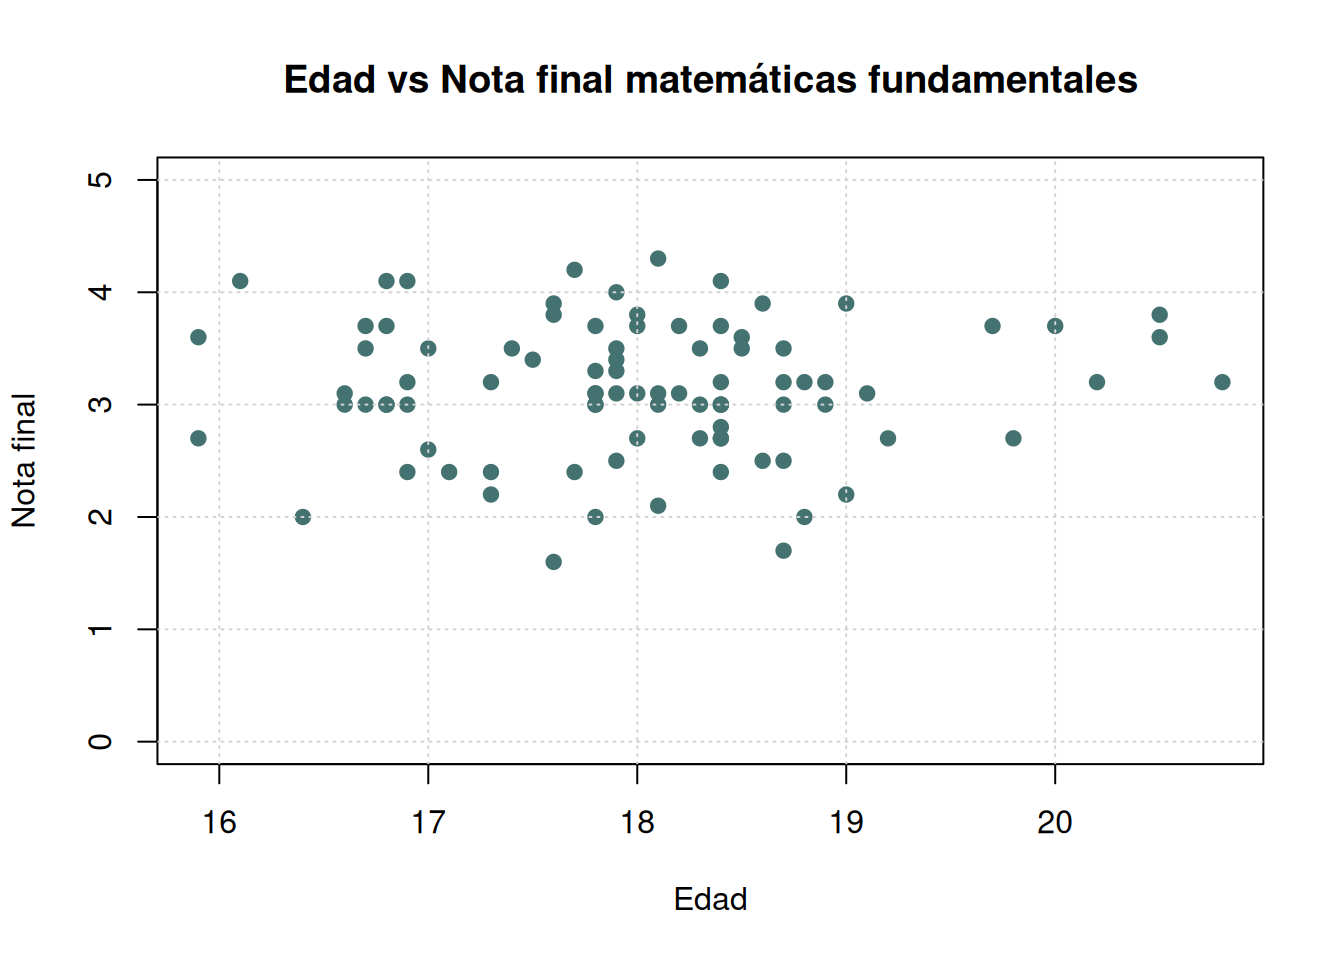
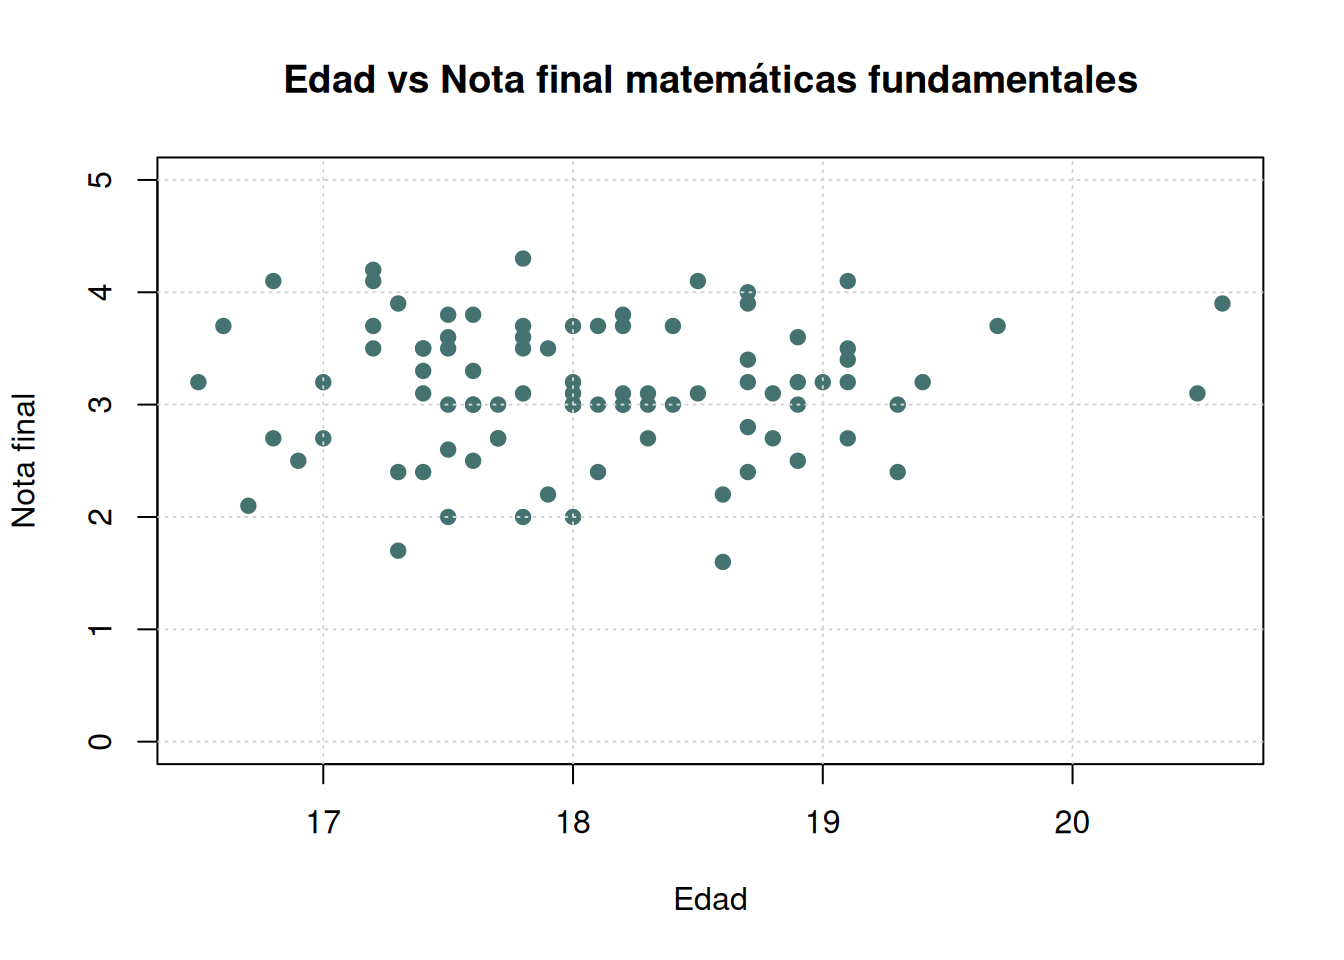
ajustes recurso13 -2

diff --git a/docs/recurso13.html b/docs/recurso13.html
@@ -732,13 +732,15 @@ stem(x)</code></pre>
 <pre><code>
   The decimal point is 1 digit(s) to the right of the |
 
-   4 | 489
-   6 | 3467781667778
-   8 | 11222333334677990000223333566778899
-  10 | 000111123344677888880112233344456678899
-  12 | 2346796
-  14 | 58
-  16 | 8</code></pre>
+   6 | 79
+   7 | 036666789
+   8 | 00001255667889999
+   9 | 00011122344455566666666778899
+  10 | 00112223346699
+  11 | 000112223557789
+  12 | 001112558
+  13 | 0266
+  14 | 9</code></pre>
 <pre class="r"><code>hist(x)
 boxplot(x)</code></pre>
 <p><img src="recurso13_files/figure-html/unnamed-chunk-12-1.png" width="672" /></p>
@@ -1011,8 +1013,8 @@ hchart(mtcars, &quot;scatter&quot;, hcaes(x = wt, y = mpg, group = cyl, name = m
                    &lt;b&gt;Cilindros:&lt;/b&gt; {point.group}&quot;
   ) %&gt;%
   hc_chart(zoomType = &quot;xy&quot;)</code></pre>
-<div class="highchart html-widget html-fill-item" id="htmlwidget-40427b5a9e7800b4acfb" style="width:672px;height:480px;"></div>
-<script type="application/json" data-for="htmlwidget-40427b5a9e7800b4acfb">{"x":{"hc_opts":{"chart":{"reflow":true,"zoomType":"xy"},"title":{"text":"Relación entre Peso y Consumo de Combustible"},"yAxis":{"title":{"text":"Millas por Galón (mpg)"},"type":"linear"},"credits":{"enabled":false},"exporting":{"enabled":false},"boost":{"enabled":false},"plotOptions":{"series":{"label":{"enabled":false},"turboThreshold":0,"showInLegend":true},"treemap":{"layoutAlgorithm":"squarified"},"scatter":{"marker":{"symbol":"circle"}}},"series":[{"name":"4","data":[{"mpg":22.8,"cyl":"4","disp":108,"hp":93,"drat":3.85,"wt":2.32,"qsec":18.61,"vs":1,"am":1,"gear":4,"carb":1,"modelo":"Datsun 710","x":2.32,"y":22.8,"name":"Datsun 710"},{"mpg":24.4,"cyl":"4","disp":146.7,"hp":62,"drat":3.69,"wt":3.19,"qsec":20,"vs":1,"am":0,"gear":4,"carb":2,"modelo":"Merc 240D","x":3.19,"y":24.4,"name":"Merc 240D"},{"mpg":22.8,"cyl":"4","disp":140.8,"hp":95,"drat":3.92,"wt":3.15,"qsec":22.9,"vs":1,"am":0,"gear":4,"carb":2,"modelo":"Merc 230","x":3.15,"y":22.8,"name":"Merc 230"},{"mpg":32.4,"cyl":"4","disp":78.7,"hp":66,"drat":4.08,"wt":2.2,"qsec":19.47,"vs":1,"am":1,"gear":4,"carb":1,"modelo":"Fiat 128","x":2.2,"y":32.4,"name":"Fiat 128"},{"mpg":30.4,"cyl":"4","disp":75.7,"hp":52,"drat":4.93,"wt":1.615,"qsec":18.52,"vs":1,"am":1,"gear":4,"carb":2,"modelo":"Honda Civic","x":1.615,"y":30.4,"name":"Honda Civic"},{"mpg":33.9,"cyl":"4","disp":71.09999999999999,"hp":65,"drat":4.22,"wt":1.835,"qsec":19.9,"vs":1,"am":1,"gear":4,"carb":1,"modelo":"Toyota Corolla","x":1.835,"y":33.9,"name":"Toyota Corolla"},{"mpg":21.5,"cyl":"4","disp":120.1,"hp":97,"drat":3.7,"wt":2.465,"qsec":20.01,"vs":1,"am":0,"gear":3,"carb":1,"modelo":"Toyota Corona","x":2.465,"y":21.5,"name":"Toyota Corona"},{"mpg":27.3,"cyl":"4","disp":79,"hp":66,"drat":4.08,"wt":1.935,"qsec":18.9,"vs":1,"am":1,"gear":4,"carb":1,"modelo":"Fiat X1-9","x":1.935,"y":27.3,"name":"Fiat X1-9"},{"mpg":26,"cyl":"4","disp":120.3,"hp":91,"drat":4.43,"wt":2.14,"qsec":16.7,"vs":0,"am":1,"gear":5,"carb":2,"modelo":"Porsche 914-2","x":2.14,"y":26,"name":"Porsche 914-2"},{"mpg":30.4,"cyl":"4","disp":95.09999999999999,"hp":113,"drat":3.77,"wt":1.513,"qsec":16.9,"vs":1,"am":1,"gear":5,"carb":2,"modelo":"Lotus Europa","x":1.513,"y":30.4,"name":"Lotus Europa"},{"mpg":21.4,"cyl":"4","disp":121,"hp":109,"drat":4.11,"wt":2.78,"qsec":18.6,"vs":1,"am":1,"gear":4,"carb":2,"modelo":"Volvo 142E","x":2.78,"y":21.4,"name":"Volvo 142E"}],"type":"scatter"},{"name":"6","data":[{"mpg":21,"cyl":"6","disp":160,"hp":110,"drat":3.9,"wt":2.62,"qsec":16.46,"vs":0,"am":1,"gear":4,"carb":4,"modelo":"Mazda RX4","x":2.62,"y":21,"name":"Mazda RX4"},{"mpg":21,"cyl":"6","disp":160,"hp":110,"drat":3.9,"wt":2.875,"qsec":17.02,"vs":0,"am":1,"gear":4,"carb":4,"modelo":"Mazda RX4 Wag","x":2.875,"y":21,"name":"Mazda RX4 Wag"},{"mpg":21.4,"cyl":"6","disp":258,"hp":110,"drat":3.08,"wt":3.215,"qsec":19.44,"vs":1,"am":0,"gear":3,"carb":1,"modelo":"Hornet 4 Drive","x":3.215,"y":21.4,"name":"Hornet 4 Drive"},{"mpg":18.1,"cyl":"6","disp":225,"hp":105,"drat":2.76,"wt":3.46,"qsec":20.22,"vs":1,"am":0,"gear":3,"carb":1,"modelo":"Valiant","x":3.46,"y":18.1,"name":"Valiant"},{"mpg":19.2,"cyl":"6","disp":167.6,"hp":123,"drat":3.92,"wt":3.44,"qsec":18.3,"vs":1,"am":0,"gear":4,"carb":4,"modelo":"Merc 280","x":3.44,"y":19.2,"name":"Merc 280"},{"mpg":17.8,"cyl":"6","disp":167.6,"hp":123,"drat":3.92,"wt":3.44,"qsec":18.9,"vs":1,"am":0,"gear":4,"carb":4,"modelo":"Merc 280C","x":3.44,"y":17.8,"name":"Merc 280C"},{"mpg":19.7,"cyl":"6","disp":145,"hp":175,"drat":3.62,"wt":2.77,"qsec":15.5,"vs":0,"am":1,"gear":5,"carb":6,"modelo":"Ferrari Dino","x":2.77,"y":19.7,"name":"Ferrari Dino"}],"type":"scatter"},{"name":"8","data":[{"mpg":18.7,"cyl":"8","disp":360,"hp":175,"drat":3.15,"wt":3.44,"qsec":17.02,"vs":0,"am":0,"gear":3,"carb":2,"modelo":"Hornet Sportabout","x":3.44,"y":18.7,"name":"Hornet Sportabout"},{"mpg":14.3,"cyl":"8","disp":360,"hp":245,"drat":3.21,"wt":3.57,"qsec":15.84,"vs":0,"am":0,"gear":3,"carb":4,"modelo":"Duster 360","x":3.57,"y":14.3,"name":"Duster 360"},{"mpg":16.4,"cyl":"8","disp":275.8,"hp":180,"drat":3.07,"wt":4.07,"qsec":17.4,"vs":0,"am":0,"gear":3,"carb":3,"modelo":"Merc 450SE","x":4.07,"y":16.4,"name":"Merc 450SE"},{"mpg":17.3,"cyl":"8","disp":275.8,"hp":180,"drat":3.07,"wt":3.73,"qsec":17.6,"vs":0,"am":0,"gear":3,"carb":3,"modelo":"Merc 450SL","x":3.73,"y":17.3,"name":"Merc 450SL"},{"mpg":15.2,"cyl":"8","disp":275.8,"hp":180,"drat":3.07,"wt":3.78,"qsec":18,"vs":0,"am":0,"gear":3,"carb":3,"modelo":"Merc 450SLC","x":3.78,"y":15.2,"name":"Merc 450SLC"},{"mpg":10.4,"cyl":"8","disp":472,"hp":205,"drat":2.93,"wt":5.25,"qsec":17.98,"vs":0,"am":0,"gear":3,"carb":4,"modelo":"Cadillac Fleetwood","x":5.25,"y":10.4,"name":"Cadillac Fleetwood"},{"mpg":10.4,"cyl":"8","disp":460,"hp":215,"drat":3,"wt":5.424,"qsec":17.82,"vs":0,"am":0,"gear":3,"carb":4,"modelo":"Lincoln Continental","x":5.424,"y":10.4,"name":"Lincoln Continental"},{"mpg":14.7,"cyl":"8","disp":440,"hp":230,"drat":3.23,"wt":5.345,"qsec":17.42,"vs":0,"am":0,"gear":3,"carb":4,"modelo":"Chrysler Imperial","x":5.345,"y":14.7,"name":"Chrysler Imperial"},{"mpg":15.5,"cyl":"8","disp":318,"hp":150,"drat":2.76,"wt":3.52,"qsec":16.87,"vs":0,"am":0,"gear":3,"carb":2,"modelo":"Dodge Challenger","x":3.52,"y":15.5,"name":"Dodge Challenger"},{"mpg":15.2,"cyl":"8","disp":304,"hp":150,"drat":3.15,"wt":3.435,"qsec":17.3,"vs":0,"am":0,"gear":3,"carb":2,"modelo":"AMC Javelin","x":3.435,"y":15.2,"name":"AMC Javelin"},{"mpg":13.3,"cyl":"8","disp":350,"hp":245,"drat":3.73,"wt":3.84,"qsec":15.41,"vs":0,"am":0,"gear":3,"carb":4,"modelo":"Camaro Z28","x":3.84,"y":13.3,"name":"Camaro Z28"},{"mpg":19.2,"cyl":"8","disp":400,"hp":175,"drat":3.08,"wt":3.845,"qsec":17.05,"vs":0,"am":0,"gear":3,"carb":2,"modelo":"Pontiac Firebird","x":3.845,"y":19.2,"name":"Pontiac Firebird"},{"mpg":15.8,"cyl":"8","disp":351,"hp":264,"drat":4.22,"wt":3.17,"qsec":14.5,"vs":0,"am":1,"gear":5,"carb":4,"modelo":"Ford Pantera L","x":3.17,"y":15.8,"name":"Ford Pantera L"},{"mpg":15,"cyl":"8","disp":301,"hp":335,"drat":3.54,"wt":3.57,"qsec":14.6,"vs":0,"am":1,"gear":5,"carb":8,"modelo":"Maserati Bora","x":3.57,"y":15,"name":"Maserati Bora"}],"type":"scatter"}],"xAxis":{"type":"linear","title":{"text":"Peso del Auto (1000 lbs)"}},"subtitle":{"text":"Datos de mtcars con diferenciación por cilindros"},"tooltip":{"useHTML":true,"pointFormat":"<b>Modelo:<\/b> {point.name}<br>\n                   <b>Peso (wt):<\/b> {point.x}<br>\n                   <b>Millas por Galón (mpg):<\/b> {point.y}<br>\n                   <b>Cilindros:<\/b> {point.group}"}},"theme":{"chart":{"backgroundColor":"transparent"},"colors":["#7cb5ec","#434348","#90ed7d","#f7a35c","#8085e9","#f15c80","#e4d354","#2b908f","#f45b5b","#91e8e1"]},"conf_opts":{"global":{"Date":null,"VMLRadialGradientURL":"http =//code.highcharts.com/list(version)/gfx/vml-radial-gradient.png","canvasToolsURL":"http =//code.highcharts.com/list(version)/modules/canvas-tools.js","getTimezoneOffset":null,"timezoneOffset":0,"useUTC":true},"lang":{"contextButtonTitle":"Chart context menu","decimalPoint":".","downloadCSV":"Download CSV","downloadJPEG":"Download JPEG image","downloadPDF":"Download PDF document","downloadPNG":"Download PNG image","downloadSVG":"Download SVG vector image","downloadXLS":"Download XLS","drillUpText":"◁ Back to {series.name}","exitFullscreen":"Exit from full screen","exportData":{"annotationHeader":"Annotations","categoryDatetimeHeader":"DateTime","categoryHeader":"Category"},"hideData":"Hide data table","invalidDate":null,"loading":"Loading...","months":["January","February","March","April","May","June","July","August","September","October","November","December"],"noData":"No data to display","numericSymbolMagnitude":1000,"numericSymbols":["k","M","G","T","P","E"],"printChart":"Print chart","resetZoom":"Reset zoom","resetZoomTitle":"Reset zoom level 1:1","shortMonths":["Jan","Feb","Mar","Apr","May","Jun","Jul","Aug","Sep","Oct","Nov","Dec"],"shortWeekdays":["Sat","Sun","Mon","Tue","Wed","Thu","Fri"],"thousandsSep":" ","viewData":"View data table","viewFullscreen":"View in full screen","weekdays":["Sunday","Monday","Tuesday","Wednesday","Thursday","Friday","Saturday"]}},"type":"chart","fonts":[],"debug":false},"evals":[],"jsHooks":[]}</script>
+<div class="highchart html-widget html-fill-item" id="htmlwidget-338a075d519460f35e05" style="width:672px;height:480px;"></div>
+<script type="application/json" data-for="htmlwidget-338a075d519460f35e05">{"x":{"hc_opts":{"chart":{"reflow":true,"zoomType":"xy"},"title":{"text":"Relación entre Peso y Consumo de Combustible"},"yAxis":{"title":{"text":"Millas por Galón (mpg)"},"type":"linear"},"credits":{"enabled":false},"exporting":{"enabled":false},"boost":{"enabled":false},"plotOptions":{"series":{"label":{"enabled":false},"turboThreshold":0,"showInLegend":true},"treemap":{"layoutAlgorithm":"squarified"},"scatter":{"marker":{"symbol":"circle"}}},"series":[{"name":"4","data":[{"mpg":22.8,"cyl":"4","disp":108,"hp":93,"drat":3.85,"wt":2.32,"qsec":18.61,"vs":1,"am":1,"gear":4,"carb":1,"modelo":"Datsun 710","x":2.32,"y":22.8,"name":"Datsun 710"},{"mpg":24.4,"cyl":"4","disp":146.7,"hp":62,"drat":3.69,"wt":3.19,"qsec":20,"vs":1,"am":0,"gear":4,"carb":2,"modelo":"Merc 240D","x":3.19,"y":24.4,"name":"Merc 240D"},{"mpg":22.8,"cyl":"4","disp":140.8,"hp":95,"drat":3.92,"wt":3.15,"qsec":22.9,"vs":1,"am":0,"gear":4,"carb":2,"modelo":"Merc 230","x":3.15,"y":22.8,"name":"Merc 230"},{"mpg":32.4,"cyl":"4","disp":78.7,"hp":66,"drat":4.08,"wt":2.2,"qsec":19.47,"vs":1,"am":1,"gear":4,"carb":1,"modelo":"Fiat 128","x":2.2,"y":32.4,"name":"Fiat 128"},{"mpg":30.4,"cyl":"4","disp":75.7,"hp":52,"drat":4.93,"wt":1.615,"qsec":18.52,"vs":1,"am":1,"gear":4,"carb":2,"modelo":"Honda Civic","x":1.615,"y":30.4,"name":"Honda Civic"},{"mpg":33.9,"cyl":"4","disp":71.09999999999999,"hp":65,"drat":4.22,"wt":1.835,"qsec":19.9,"vs":1,"am":1,"gear":4,"carb":1,"modelo":"Toyota Corolla","x":1.835,"y":33.9,"name":"Toyota Corolla"},{"mpg":21.5,"cyl":"4","disp":120.1,"hp":97,"drat":3.7,"wt":2.465,"qsec":20.01,"vs":1,"am":0,"gear":3,"carb":1,"modelo":"Toyota Corona","x":2.465,"y":21.5,"name":"Toyota Corona"},{"mpg":27.3,"cyl":"4","disp":79,"hp":66,"drat":4.08,"wt":1.935,"qsec":18.9,"vs":1,"am":1,"gear":4,"carb":1,"modelo":"Fiat X1-9","x":1.935,"y":27.3,"name":"Fiat X1-9"},{"mpg":26,"cyl":"4","disp":120.3,"hp":91,"drat":4.43,"wt":2.14,"qsec":16.7,"vs":0,"am":1,"gear":5,"carb":2,"modelo":"Porsche 914-2","x":2.14,"y":26,"name":"Porsche 914-2"},{"mpg":30.4,"cyl":"4","disp":95.09999999999999,"hp":113,"drat":3.77,"wt":1.513,"qsec":16.9,"vs":1,"am":1,"gear":5,"carb":2,"modelo":"Lotus Europa","x":1.513,"y":30.4,"name":"Lotus Europa"},{"mpg":21.4,"cyl":"4","disp":121,"hp":109,"drat":4.11,"wt":2.78,"qsec":18.6,"vs":1,"am":1,"gear":4,"carb":2,"modelo":"Volvo 142E","x":2.78,"y":21.4,"name":"Volvo 142E"}],"type":"scatter"},{"name":"6","data":[{"mpg":21,"cyl":"6","disp":160,"hp":110,"drat":3.9,"wt":2.62,"qsec":16.46,"vs":0,"am":1,"gear":4,"carb":4,"modelo":"Mazda RX4","x":2.62,"y":21,"name":"Mazda RX4"},{"mpg":21,"cyl":"6","disp":160,"hp":110,"drat":3.9,"wt":2.875,"qsec":17.02,"vs":0,"am":1,"gear":4,"carb":4,"modelo":"Mazda RX4 Wag","x":2.875,"y":21,"name":"Mazda RX4 Wag"},{"mpg":21.4,"cyl":"6","disp":258,"hp":110,"drat":3.08,"wt":3.215,"qsec":19.44,"vs":1,"am":0,"gear":3,"carb":1,"modelo":"Hornet 4 Drive","x":3.215,"y":21.4,"name":"Hornet 4 Drive"},{"mpg":18.1,"cyl":"6","disp":225,"hp":105,"drat":2.76,"wt":3.46,"qsec":20.22,"vs":1,"am":0,"gear":3,"carb":1,"modelo":"Valiant","x":3.46,"y":18.1,"name":"Valiant"},{"mpg":19.2,"cyl":"6","disp":167.6,"hp":123,"drat":3.92,"wt":3.44,"qsec":18.3,"vs":1,"am":0,"gear":4,"carb":4,"modelo":"Merc 280","x":3.44,"y":19.2,"name":"Merc 280"},{"mpg":17.8,"cyl":"6","disp":167.6,"hp":123,"drat":3.92,"wt":3.44,"qsec":18.9,"vs":1,"am":0,"gear":4,"carb":4,"modelo":"Merc 280C","x":3.44,"y":17.8,"name":"Merc 280C"},{"mpg":19.7,"cyl":"6","disp":145,"hp":175,"drat":3.62,"wt":2.77,"qsec":15.5,"vs":0,"am":1,"gear":5,"carb":6,"modelo":"Ferrari Dino","x":2.77,"y":19.7,"name":"Ferrari Dino"}],"type":"scatter"},{"name":"8","data":[{"mpg":18.7,"cyl":"8","disp":360,"hp":175,"drat":3.15,"wt":3.44,"qsec":17.02,"vs":0,"am":0,"gear":3,"carb":2,"modelo":"Hornet Sportabout","x":3.44,"y":18.7,"name":"Hornet Sportabout"},{"mpg":14.3,"cyl":"8","disp":360,"hp":245,"drat":3.21,"wt":3.57,"qsec":15.84,"vs":0,"am":0,"gear":3,"carb":4,"modelo":"Duster 360","x":3.57,"y":14.3,"name":"Duster 360"},{"mpg":16.4,"cyl":"8","disp":275.8,"hp":180,"drat":3.07,"wt":4.07,"qsec":17.4,"vs":0,"am":0,"gear":3,"carb":3,"modelo":"Merc 450SE","x":4.07,"y":16.4,"name":"Merc 450SE"},{"mpg":17.3,"cyl":"8","disp":275.8,"hp":180,"drat":3.07,"wt":3.73,"qsec":17.6,"vs":0,"am":0,"gear":3,"carb":3,"modelo":"Merc 450SL","x":3.73,"y":17.3,"name":"Merc 450SL"},{"mpg":15.2,"cyl":"8","disp":275.8,"hp":180,"drat":3.07,"wt":3.78,"qsec":18,"vs":0,"am":0,"gear":3,"carb":3,"modelo":"Merc 450SLC","x":3.78,"y":15.2,"name":"Merc 450SLC"},{"mpg":10.4,"cyl":"8","disp":472,"hp":205,"drat":2.93,"wt":5.25,"qsec":17.98,"vs":0,"am":0,"gear":3,"carb":4,"modelo":"Cadillac Fleetwood","x":5.25,"y":10.4,"name":"Cadillac Fleetwood"},{"mpg":10.4,"cyl":"8","disp":460,"hp":215,"drat":3,"wt":5.424,"qsec":17.82,"vs":0,"am":0,"gear":3,"carb":4,"modelo":"Lincoln Continental","x":5.424,"y":10.4,"name":"Lincoln Continental"},{"mpg":14.7,"cyl":"8","disp":440,"hp":230,"drat":3.23,"wt":5.345,"qsec":17.42,"vs":0,"am":0,"gear":3,"carb":4,"modelo":"Chrysler Imperial","x":5.345,"y":14.7,"name":"Chrysler Imperial"},{"mpg":15.5,"cyl":"8","disp":318,"hp":150,"drat":2.76,"wt":3.52,"qsec":16.87,"vs":0,"am":0,"gear":3,"carb":2,"modelo":"Dodge Challenger","x":3.52,"y":15.5,"name":"Dodge Challenger"},{"mpg":15.2,"cyl":"8","disp":304,"hp":150,"drat":3.15,"wt":3.435,"qsec":17.3,"vs":0,"am":0,"gear":3,"carb":2,"modelo":"AMC Javelin","x":3.435,"y":15.2,"name":"AMC Javelin"},{"mpg":13.3,"cyl":"8","disp":350,"hp":245,"drat":3.73,"wt":3.84,"qsec":15.41,"vs":0,"am":0,"gear":3,"carb":4,"modelo":"Camaro Z28","x":3.84,"y":13.3,"name":"Camaro Z28"},{"mpg":19.2,"cyl":"8","disp":400,"hp":175,"drat":3.08,"wt":3.845,"qsec":17.05,"vs":0,"am":0,"gear":3,"carb":2,"modelo":"Pontiac Firebird","x":3.845,"y":19.2,"name":"Pontiac Firebird"},{"mpg":15.8,"cyl":"8","disp":351,"hp":264,"drat":4.22,"wt":3.17,"qsec":14.5,"vs":0,"am":1,"gear":5,"carb":4,"modelo":"Ford Pantera L","x":3.17,"y":15.8,"name":"Ford Pantera L"},{"mpg":15,"cyl":"8","disp":301,"hp":335,"drat":3.54,"wt":3.57,"qsec":14.6,"vs":0,"am":1,"gear":5,"carb":8,"modelo":"Maserati Bora","x":3.57,"y":15,"name":"Maserati Bora"}],"type":"scatter"}],"xAxis":{"type":"linear","title":{"text":"Peso del Auto (1000 lbs)"}},"subtitle":{"text":"Datos de mtcars con diferenciación por cilindros"},"tooltip":{"useHTML":true,"pointFormat":"<b>Modelo:<\/b> {point.name}<br>\n                   <b>Peso (wt):<\/b> {point.x}<br>\n                   <b>Millas por Galón (mpg):<\/b> {point.y}<br>\n                   <b>Cilindros:<\/b> {point.group}"}},"theme":{"chart":{"backgroundColor":"transparent"},"colors":["#7cb5ec","#434348","#90ed7d","#f7a35c","#8085e9","#f15c80","#e4d354","#2b908f","#f45b5b","#91e8e1"]},"conf_opts":{"global":{"Date":null,"VMLRadialGradientURL":"http =//code.highcharts.com/list(version)/gfx/vml-radial-gradient.png","canvasToolsURL":"http =//code.highcharts.com/list(version)/modules/canvas-tools.js","getTimezoneOffset":null,"timezoneOffset":0,"useUTC":true},"lang":{"contextButtonTitle":"Chart context menu","decimalPoint":".","downloadCSV":"Download CSV","downloadJPEG":"Download JPEG image","downloadPDF":"Download PDF document","downloadPNG":"Download PNG image","downloadSVG":"Download SVG vector image","downloadXLS":"Download XLS","drillUpText":"◁ Back to {series.name}","exitFullscreen":"Exit from full screen","exportData":{"annotationHeader":"Annotations","categoryDatetimeHeader":"DateTime","categoryHeader":"Category"},"hideData":"Hide data table","invalidDate":null,"loading":"Loading...","months":["January","February","March","April","May","June","July","August","September","October","November","December"],"noData":"No data to display","numericSymbolMagnitude":1000,"numericSymbols":["k","M","G","T","P","E"],"printChart":"Print chart","resetZoom":"Reset zoom","resetZoomTitle":"Reset zoom level 1:1","shortMonths":["Jan","Feb","Mar","Apr","May","Jun","Jul","Aug","Sep","Oct","Nov","Dec"],"shortWeekdays":["Sat","Sun","Mon","Tue","Wed","Thu","Fri"],"thousandsSep":" ","viewData":"View data table","viewFullscreen":"View in full screen","weekdays":["Sunday","Monday","Tuesday","Wednesday","Thursday","Friday","Saturday"]}},"type":"chart","fonts":[],"debug":false},"evals":[],"jsHooks":[]}</script>
 <p></br></br></p>
 </div>
 <div id="graficos-con-shiny" class="section level1">
